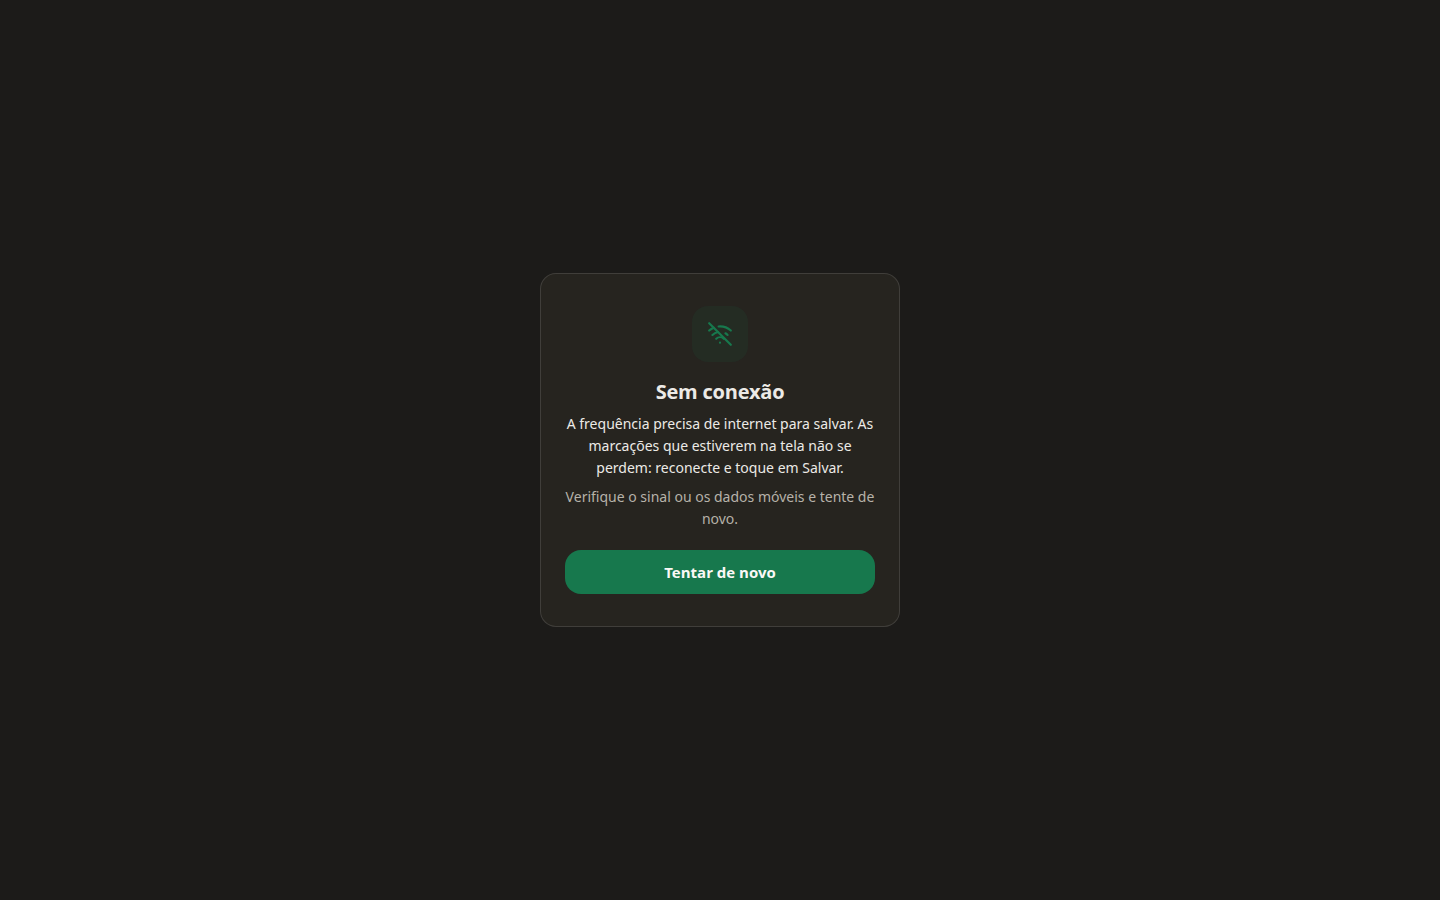
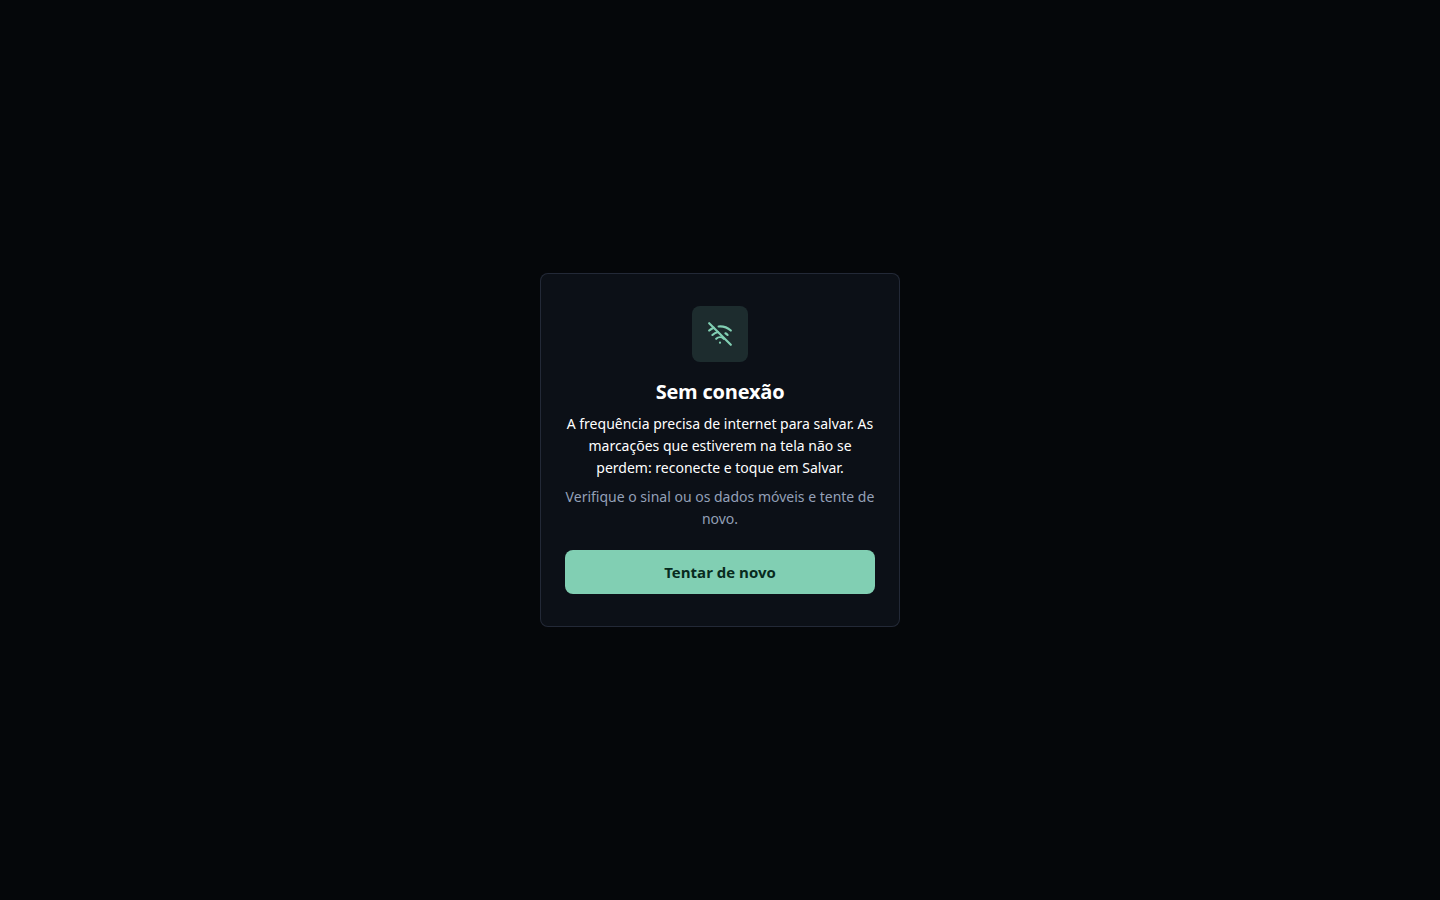
docs(interface): atualiza o fundo neutro e a captura offline
- registra o fundo claro atual e os cartões cinza-azulados\n- recaptura a página offline com a paleta do tema\n\nAssisted-by: OpenCode:DeepSeek V4.1 Flash 1017

Changed region(s): [[0.375, 0.28, 0.625, 0.7156]]

diff --git a/docs/interface.md b/docs/interface.md
@@ -67,7 +67,7 @@ Enquanto uma ação de rede está em andamento, o controle fica ocupado e ignora
 
 O estilo Blocos suaves se estende à navegação, conta, Painel, Relatórios, Alunos, Gestão, Chamada Parcial, Saídas e Entradas, Horários, Minhas turmas e FrequenciBI. Botões e filtros compartilham cantos arredondados, ícones e rótulos curtos. Na navegação, na conta, nos comandos do cabeçalho e nos atalhos da entrada, as ações não selecionadas ficam sem fundo em repouso; a seção selecionada mantém o destaque verde. As ações por ícone repetidas nas listas da Gestão e as ações auxiliares e de organização dos gráficos do FrequenciBI também ficam sem fundo em repouso. Os demais fundos neutros são mantidos conforme a função, com superfície quase igual à do cartão e fio de baixo contraste nos controles; no tema claro, as setas de data do Painel e as ações Registrar e Editar da Chamada Parcial têm fundo mais perceptível. Em cores forçadas, a aba selecionada mantém um contorno depois da saída do foco. Cores de ausência, justificativa e perigo continuam semânticas. No resumo semanal, a rosca indica o total de faltas, justificadas e presenças como F + FJ + P, com presenças parciais separadas. Gráficos e tabelas preservam suas legendas e os formulários mantêm confirmações e permissões.
 
-- Fundo neutro `#f6f6f6` no tema claro, cartões brancos, tinta grafite e um único acento verde institucional para presença e ações primárias.
+- Fundo neutro `#fcfcfc` no tema claro, cartões cinza-azulados, tinta grafite e um único acento verde institucional para presença e ações primárias.
 - O contrato de superfícies está no [ADR-061](adr/061-superficies-controles-e-temas.md) e no [ADR-062](adr/062-controles-de-superficie-suave.md): controles clicáveis usam fundo quase igual ao cartão, fio de 1 px de baixo contraste e texto forte; campos usam contorno de 1 px, o raio é 8 px em cartões e controles e os controles não recebem sombra nem gradiente próprio. O trilho das abas usa `--superficie-trilho` e a pílula ativa usa `--selecionado-fundo`. No campo integrado da barra de busca, a linha é do contêiner, não do input interno. O interruptor desligado usa `--interruptor-fundo`, separado de `--input`. O estado expandido de seletores e divulgações usa o mesmo tratamento de seleção dos controles selecionados, sem borda visível.
 - Texto normal deve ter contraste mínimo de 4,5:1; borda funcional e foco, 3:1; fio de controle, cerca de 1,5:1 contra o cartão e a página e fundo do controle quase igual ao cartão; estados desabilitados usam superfície e texto próprios, com 4,5:1 no texto e sem `opacity` global. A matriz de testes de interface cobre os dois temas, página e cartão, repouso, hover, foco, seleção, expandido, desabilitado e inválido.
 - O vermelho é estritamente semântico: aparece somente onde comunica falta ou erro.
